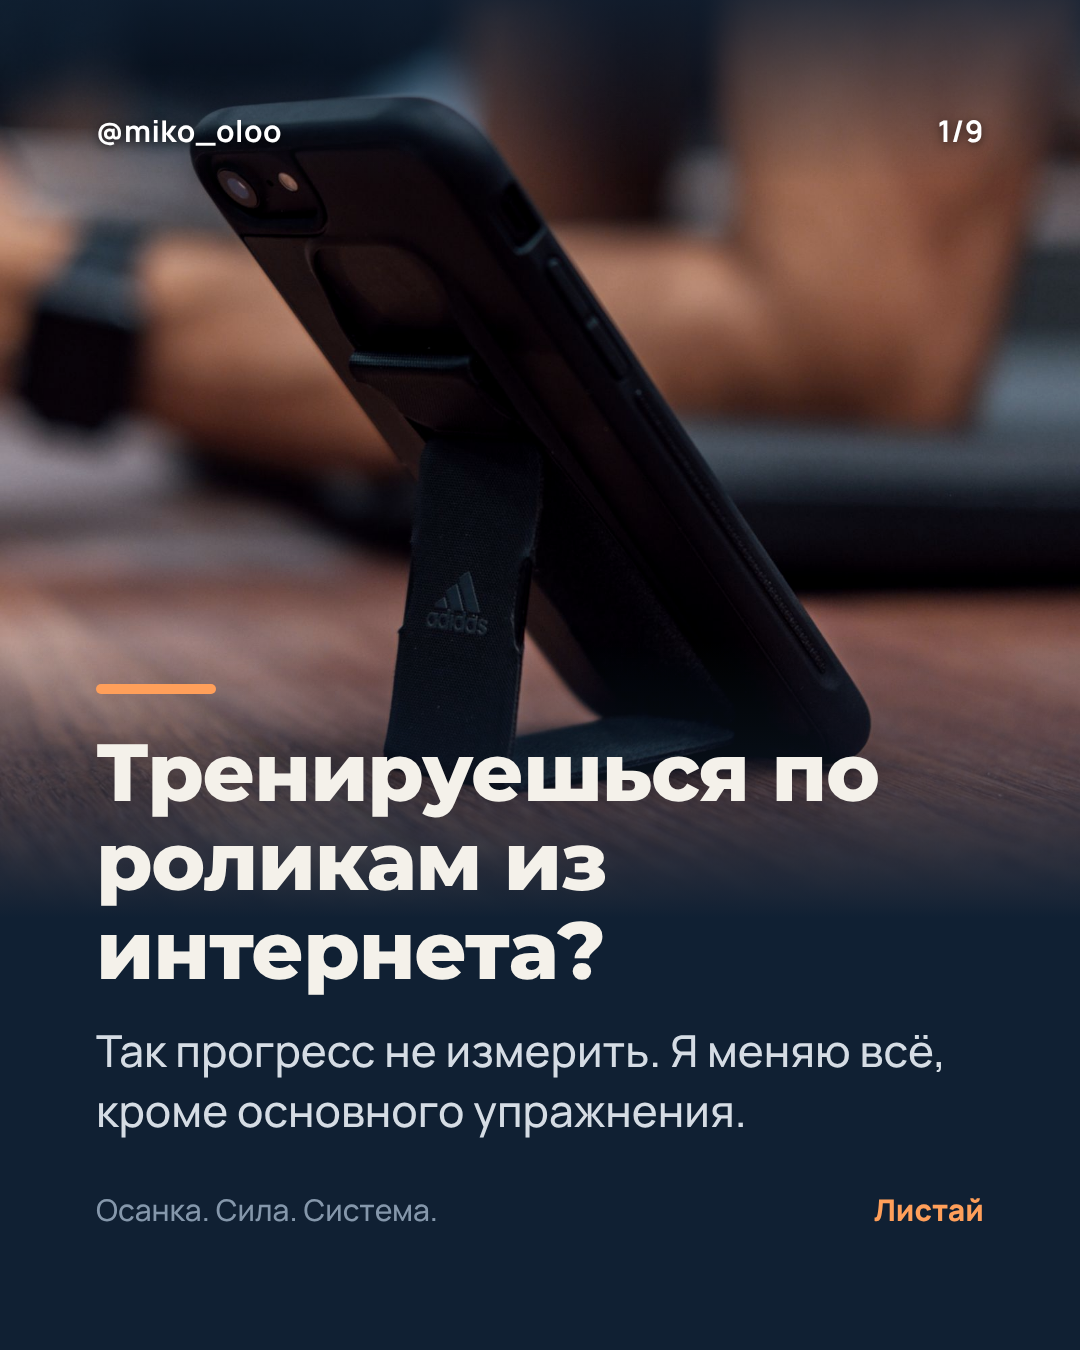
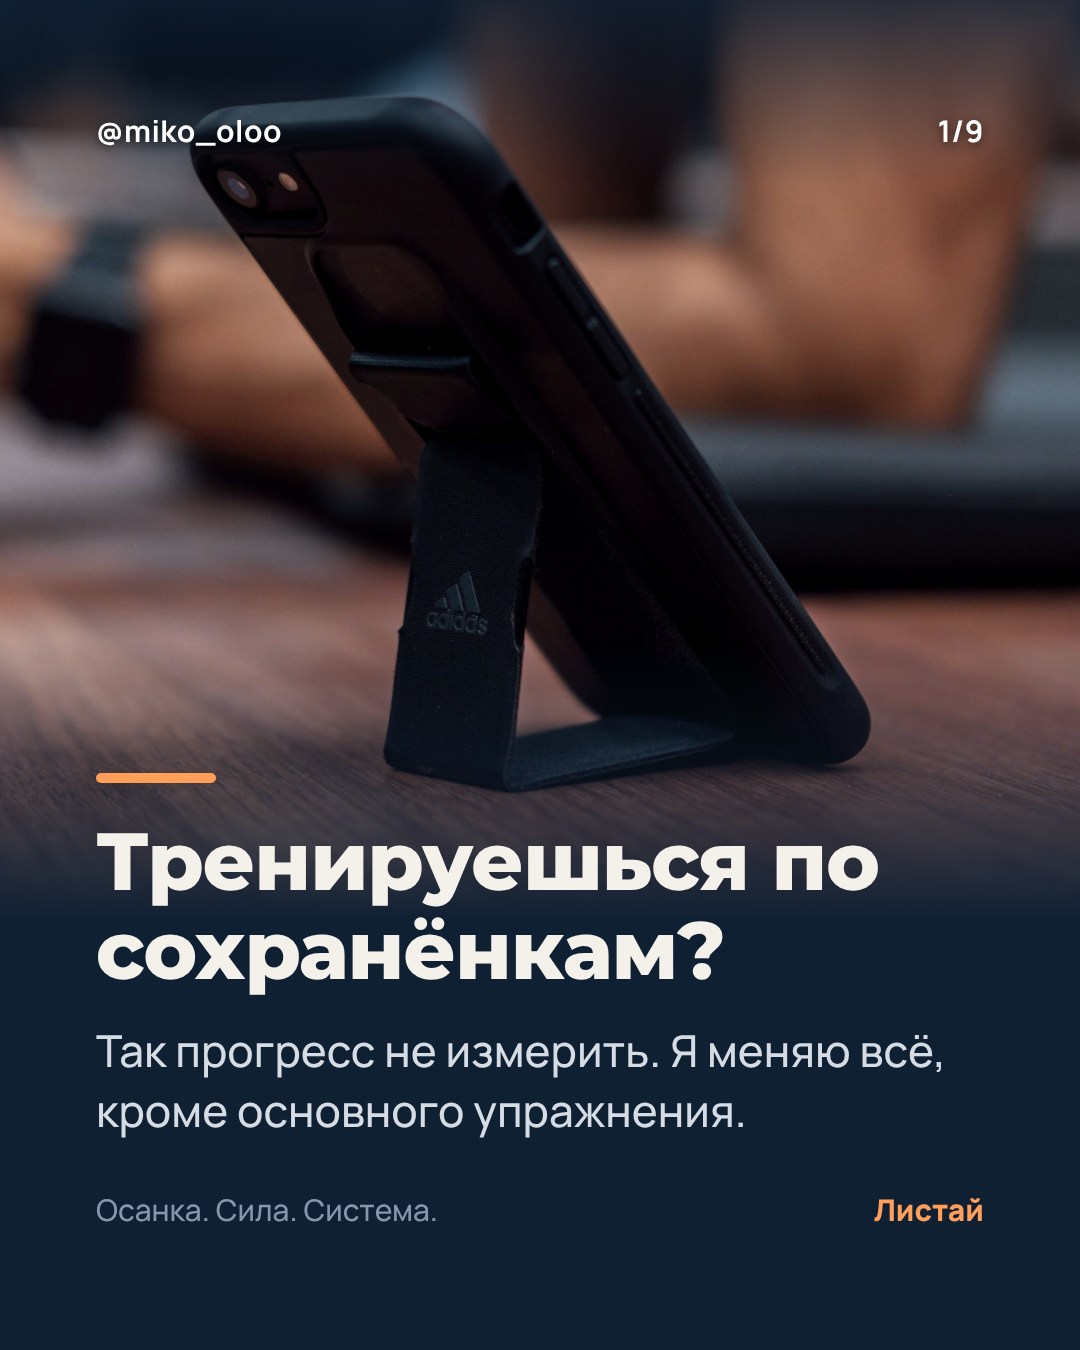
Карусель 2: вернул хук "Тренируешься по сохранёнкам?"
Claude-Session: https://claude.ai/code/session_014b6iEBjPGyacsH4fnBbVwQ

Changed region(s): [[0.0917, 0.4978, 0.825, 0.7467]]

diff --git a/.claude/MIKAEL_DICTIONARY.md b/.claude/MIKAEL_DICTIONARY.md
@@ -37,7 +37,8 @@
 | 23.10 | Брат, у тебя картинки не в тему. Про утиную поясницу, может на первом слайде она и должна быть. Вот фото клиента сбоку. Увольняй этих агентов и того, кто их нанял | Картинка должна показывать тему слайда, а не украшать. Живые стоковые фото не по теме хуже, чем ничего | Главный критерий картинки: без текста понятно, о чём слайд. Обложка показывает проблему из хука. Свои фото и фото клиентов важнее стоков. Уволены агенты по картинкам и team-lead, наняты hr-director, visual-lead, slide-builder, visual-qa |
 | 23.10 | Заменяй. Добро. По всем остальным слайдам поднажми, сделай чётенько. Уже без одобрения можешь сразу менять, а то лимитов не хватит | Разрешил фото клиента и замену постов в Metricool без согласования | Правки уже одобренных каруселей вносить и заменять в Metricool сразу, потом отчитаться. Экономить лимит: меньше агентов, меньше передач |
 | 26.10 | Мне не нравится, как ты описываешь особенности осанки, слишком по-деревенски. Больше компетентности и профессионализма, но понятно тому, кто хочет заняться осанкой (они уже более-менее разбираются в терминах) | Нужен тон тренера-специалиста, а не бытовой язык | В контенте профессиональные термины (антеверсия, гиперлордоз, кифоз, протракция, ретракция лопаток, подошвенная фасция) короткими ясными фразами. Бытовые образы только в хуке обложки |
-| 26.10 | Кто говорит "сохранёнки"? Впервые слышу. Много терминов добавил: одни оставить, другие перевести (антеверсия = передний наклон, протракция = перевод), но без "голова вперёд, таз назад", "выступающий живот" можно | Перебор с латинскими терминами и сленгом | Общеизвестные термины оставляем, заимствованные переводим на русский профессиональный. Сленг не используем |
+| 26.10 | Кто говорит "сохранёнки"? Впервые слышу. Много терминов добавил: одни оставить, другие перевести (антеверсия = передний наклон, протракция = перевод), но без "голова вперёд, таз назад", "выступающий живот" можно | Перебор с латинскими терминами и сленгом | Общеизвестные термины оставляем, заимствованные переводим на русский профессиональный |
+| 26.10 | Оставь сохранёнки, я понял, что это значит | Хук "Тренируешься по сохранёнкам?" его устраивает | Разговорные слова аудитории Instagram в хуках допустимы, если Микаел их понимает |
 | 23.10 | Я очень однообразно выражаюсь, может даже непонятно | Просит догадываться о смысле | Запросы сначала через request-interpreter |
 
 ## Что ему нравится

diff --git a/CLAUDE.md b/CLAUDE.md
@@ -24,7 +24,7 @@
 - Без тире «—» и «–», без «ёлочек» (только обычные кавычки "..."), без «×» (пишем «3 по 10» или «3х10»), без «°», «•», «→».
 - Диапазоны через обычный дефис: 3-5, 1,8-2,2 г.
 - Короткие предложения, без ИИ-штампов.
-- Контент для Instagram: тон тренера-специалиста. Общеизвестные термины оставляем (гиперлордоз, кифоз, лордоз), заимствованные переводим на русский профессиональный язык: антеверсия = передний наклон таза, протракция головы = переднее положение головы, ретракция лопаток = сведение лопаток. Бытовое "голова вперёд, таз назад" не пишем, "выступающий живот" можно. Сленг ("сохранёнки") не используем. Бытовые образы допустимы только в хуке.
+- Контент для Instagram: тон тренера-специалиста. Общеизвестные термины оставляем (гиперлордоз, кифоз, лордоз), заимствованные переводим на русский профессиональный язык: антеверсия = передний наклон таза, протракция головы = переднее положение головы, ретракция лопаток = сведение лопаток. Бытовое "голова вперёд, таз назад" не пишем, "выступающий живот" можно. Бытовые образы допустимы только в хуке.
 - Базы знаний: формат справочника тренера, цифры и правила принятия решений важнее объяснений.
 - Где нужен опыт Микаела, ставим пометку **Нужно от тебя:** и вопрос. Не выдумываем его кейсы и цифры.
 

diff --git a/content/PLAN_2_WEEKS.md b/content/PLAN_2_WEEKS.md
@@ -200,14 +200,14 @@
 - **JSON для рендера:** content/carousels/carousels.json, id `c2_osnovnoe_podsobka`
 
 **Хук (2 строки):**
-Тренируешься по роликам из интернета?
+Тренируешься по сохранёнкам?
 Так прогресс не с чем сравнить. Я меняю всё, кроме одного упражнения.
 
 **Слайды:**
 
 | Слайд | Заголовок | Текст |
 |---|---|---|
-| 1 | Тренируешься по роликам из интернета? | Так прогресс не с чем сравнить. Я меняю всё, кроме одного упражнения. |
+| 1 | Тренируешься по сохранёнкам? | Так прогресс не с чем сравнить. Я меняю всё, кроме одного упражнения. |
 | 2 | Знаний хватает. Не хватает системы. | Куски информации есть у всех. Нет понимания, как они связаны и что делать, когда всё пошло не по плану. Схема "основное плюс подсобка" отвечает на это. |
 | 3 | Основное выбираю по уровню | Грудь: жим лёжа, жим гантелей или отжимания. Спина: подтягивания с весом, подтягивания или вертикальная тяга. Ноги: присед со штангой, жим ногами или гоблет-присед. Главное, чтобы ты делал его технично и мог расти. |
 | 4 | 4 правила основного | Минимум 4 рабочих подхода. Всегда первым, на свежую голову. На каждой тренировке этой группы. Никогда до отказа. |
